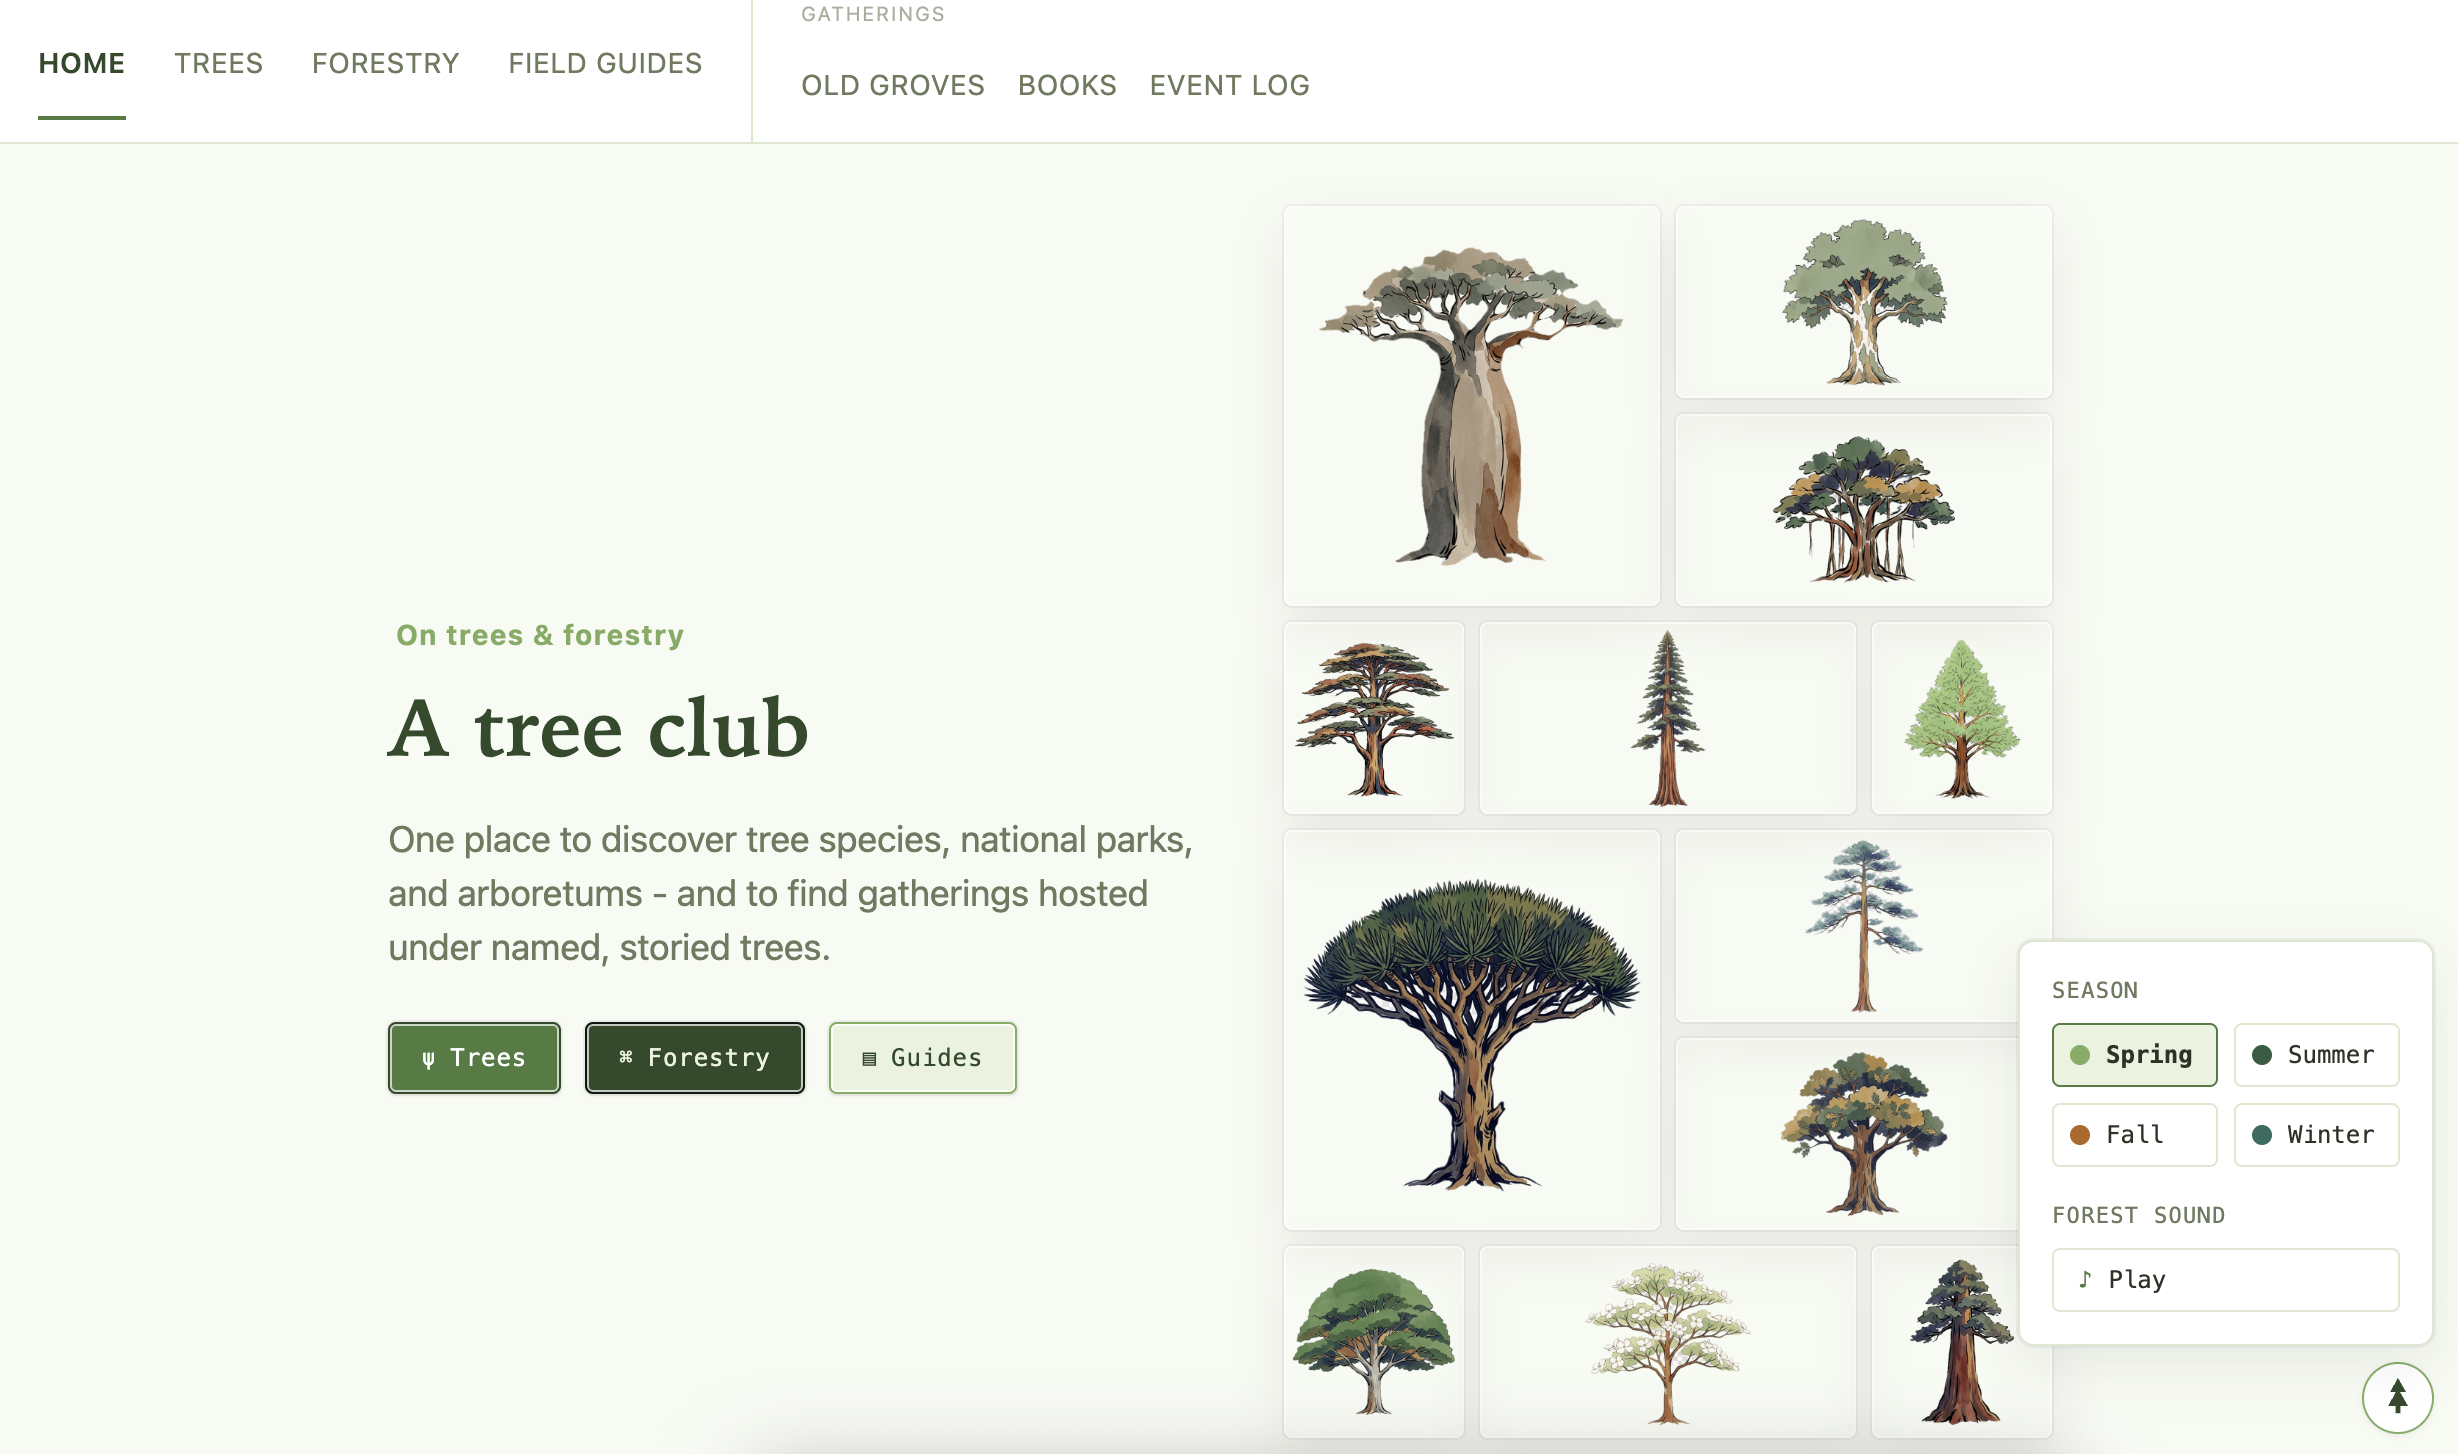
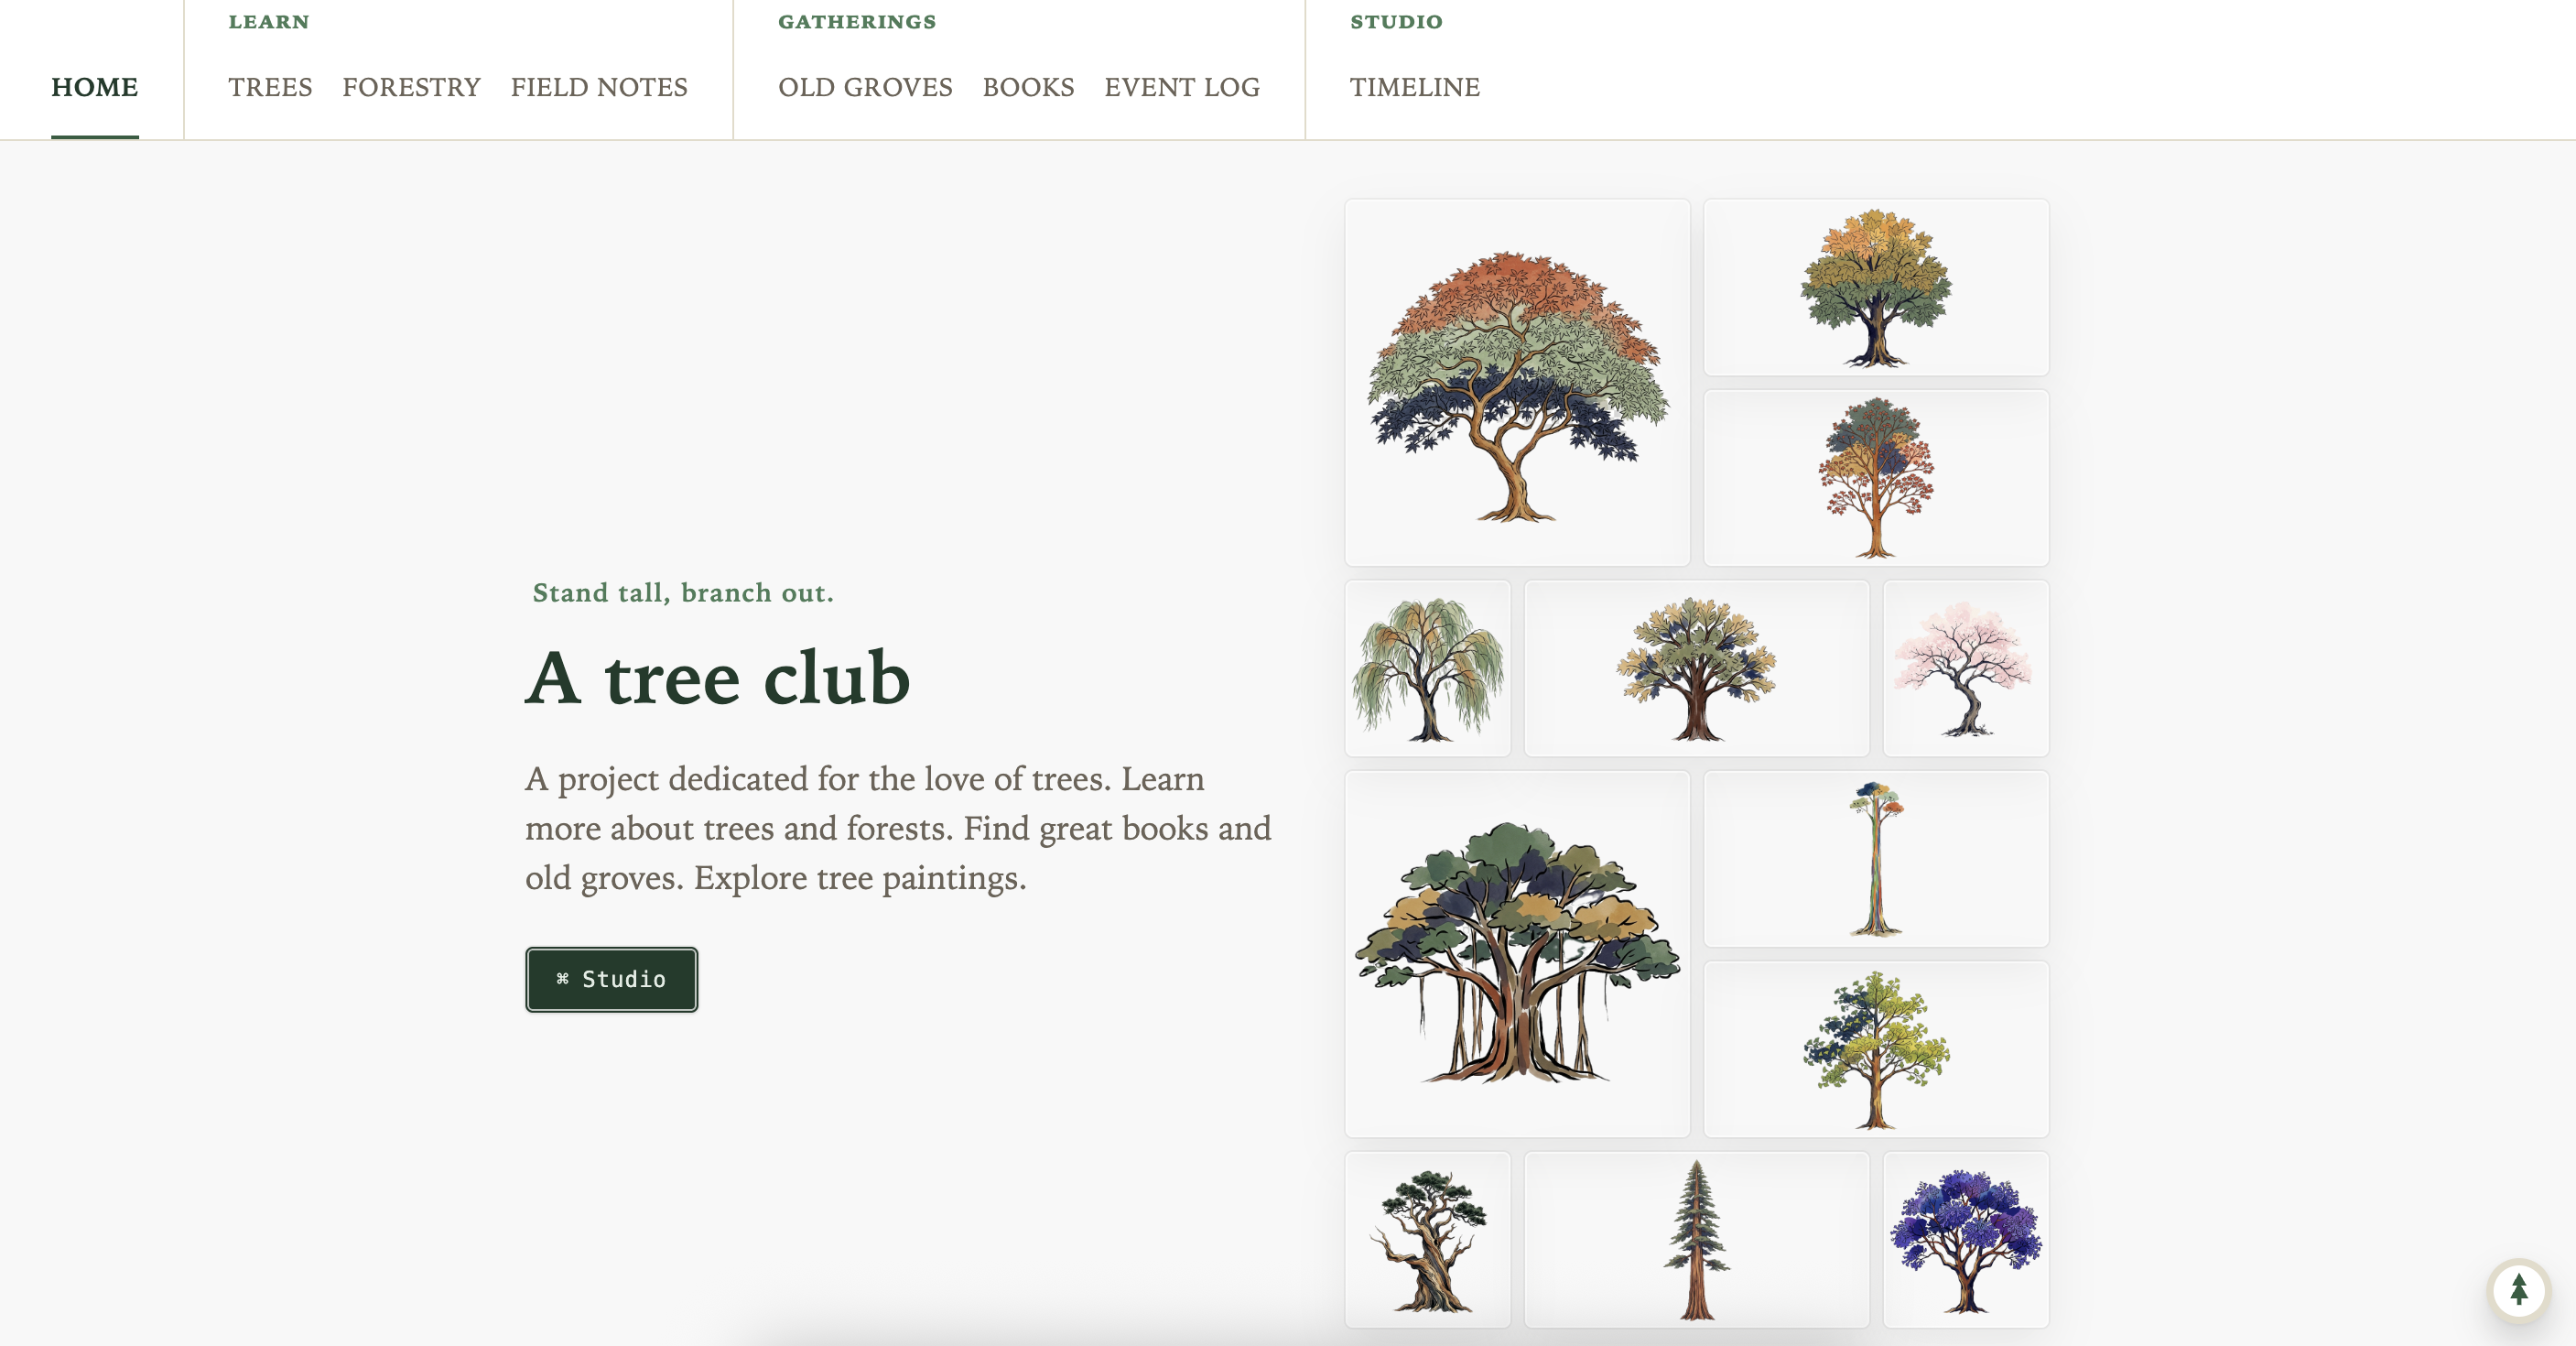
update work

diff --git a/src/pages/work.js b/src/pages/work.js
@@ -27,9 +27,9 @@ const WorkIndex = ({ data, location }) => {
         <div className="work-content-container">
           <p><strong>[2026]</strong></p>
           <ul>
-            <li>A passion project on trees and forestry.</li>
+            <li>A passion project on trees and forestry. For the love of trees. Learn more about trees and forests. Find great books and old groves. Explore tree paintings.</li>
           </ul>
-          {/* <p><strong>Website</strong>: <a href="">atreeclub</a></p> */}
+          <p><strong>Website</strong>: <a href="https://atreeclub.com/">A Tree Club</a></p>
         </div>
       </article>
 